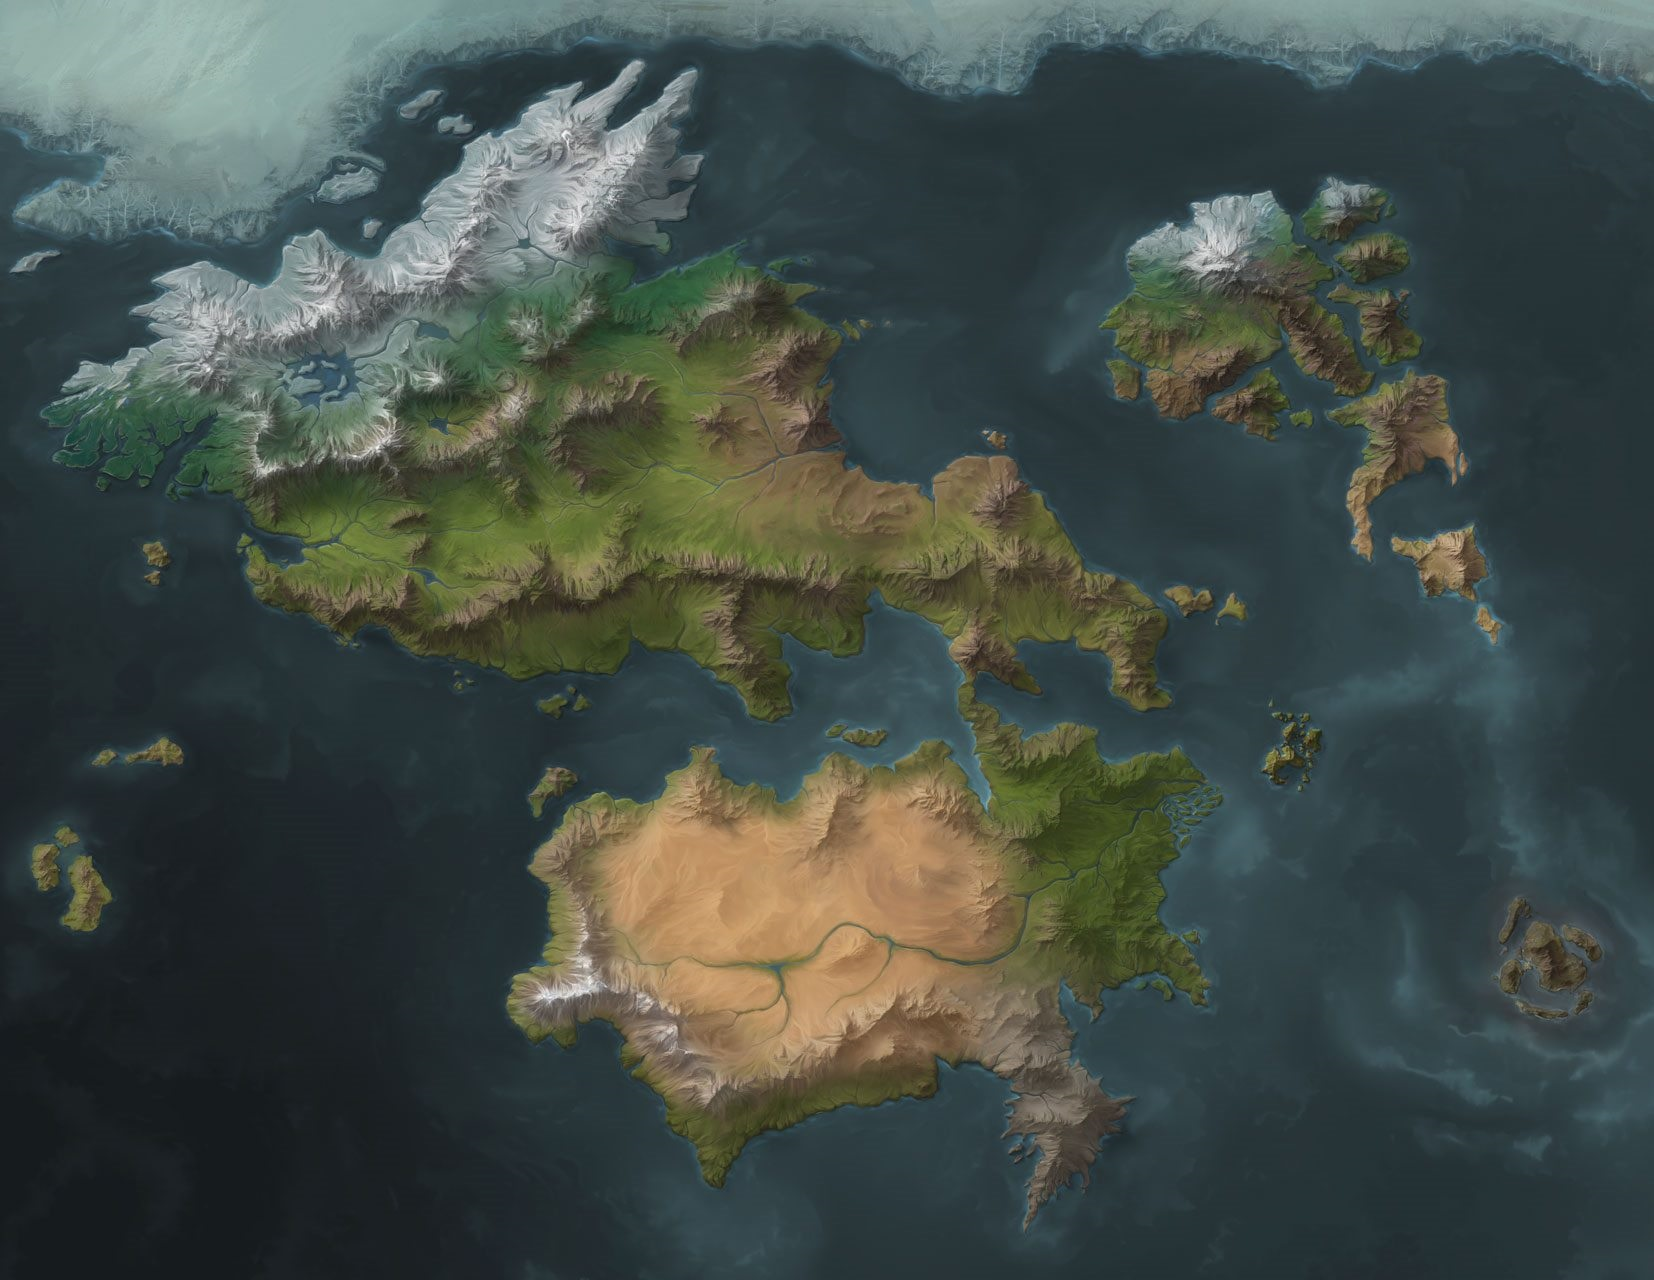
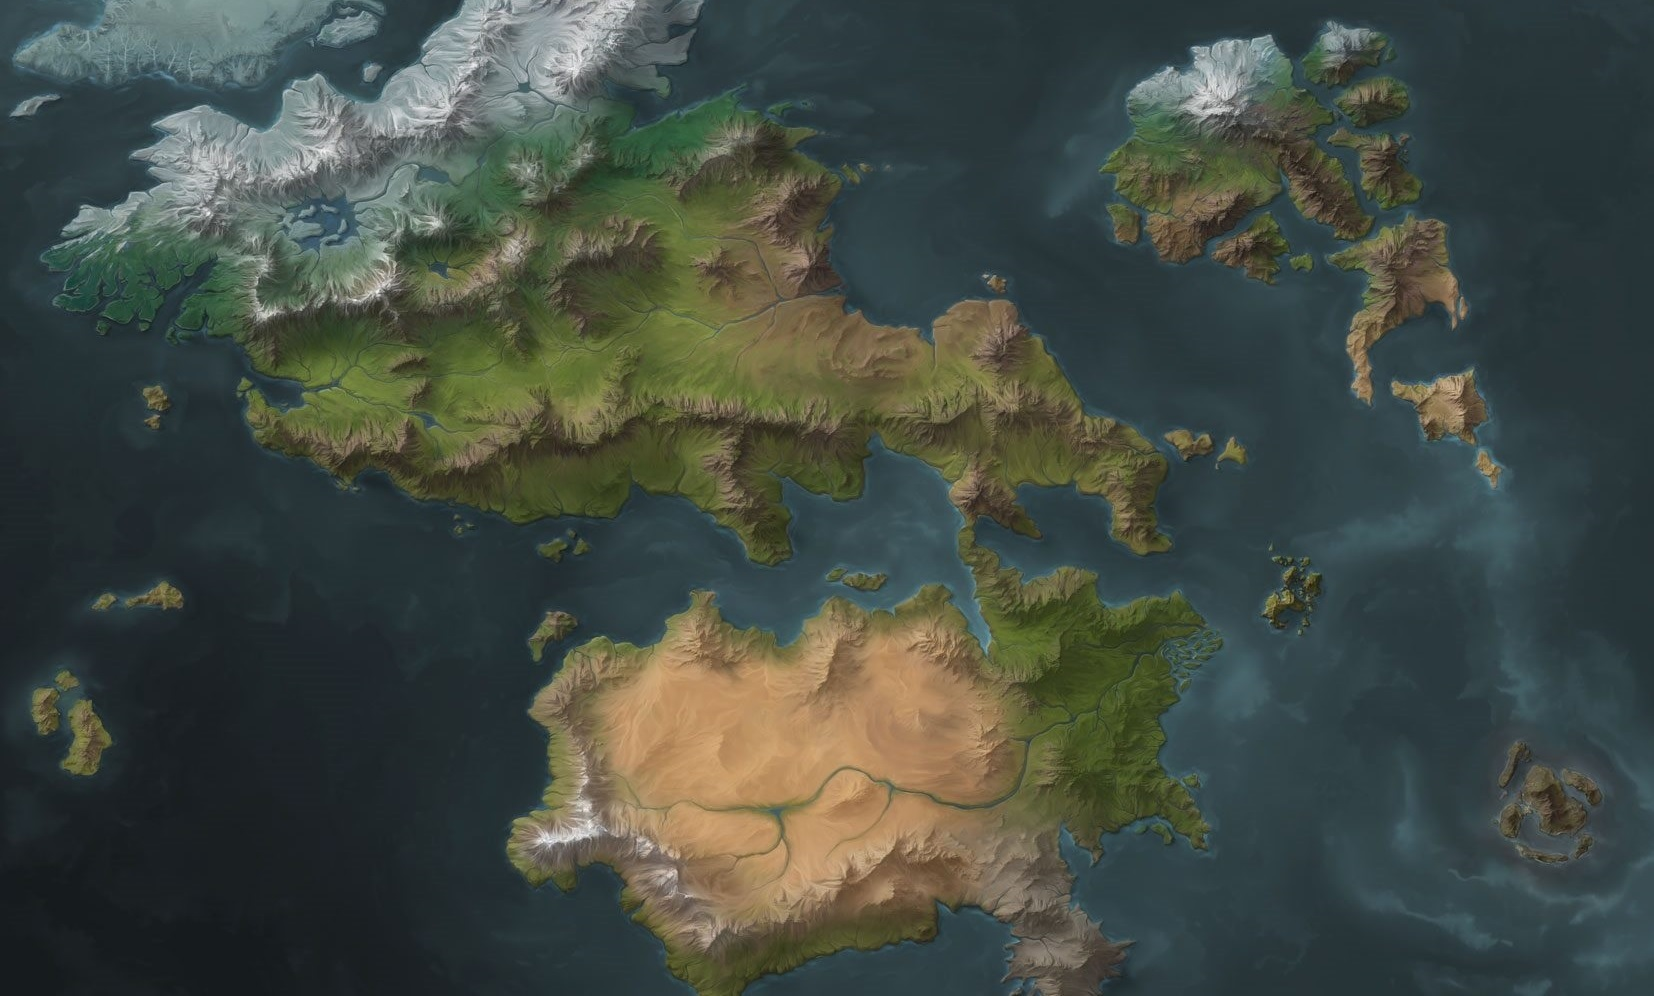
bug fix

diff --git a/frontend/src/pages/worldmap.jsx b/frontend/src/pages/worldmap.jsx
@@ -9,55 +9,55 @@ export default function WorldMap() {
       id: "heimerdinger",
       name: "Heimerdinger",
       image: "/assets/heimerdinger.jpg",
-      position: { left: "62%", top: "55%" },
+      position: { left: "59%", top: "52%" },
       description: "L'excentrique professeur Cecil B. Heimerdinger est l'un des inventeurs les plus novateurs et les plus estimés que le monde ait jamais connus. Membre le plus ancien du Conseil de Piltover, il a été témoin des excès et des dérives de la soif de progrès incessante de la ville. Malgré tout, ce brillant scientifique et enseignant est resté fidèle à sa vocation : mettre ses inventions originales au service de l'amélioration du quotidien.",
     },
     {
       id: "shen",
       name: "Shen",
       image: "/assets/shen.jpg",
-      position: { left: "75%", top: "20%" },
+      position: { left: "73%", top: "17%" },
       description: "Parmi les mystérieux guerriers ioniens connus sous le nom de Kinkou, Shen est leur chef, l'Œil du Crépuscule. Il aspire à demeurer libre de toute confusion émotionnelle, de tout préjugé et de tout ego, et chemine sur la voie invisible du jugement impartial entre le monde spirituel et le monde physique. Chargé de maintenir l'équilibre entre eux, Shen manie des lames d'acier et d'énergie arcanique contre quiconque oserait le menacer.",
     },
     {
       id: "leblanc",
       name: "Leblanc",
       image: "/assets/leblanc.jpg",
-      position: { left: "53%", top: "35%" },
+      position: { left: "47%", top: "31%" },
       description: "Mystérieuse même pour les autres membres de la cabale de la Rose Noire, LeBlanc n'est qu'un nom parmi tant d'autres pour cette femme à la peau pâle qui manipule les personnes et les événements depuis les origines de Noxus. Grâce à sa magie de duplication, la sorcière peut apparaître à n'importe qui, n'importe où, et même être à plusieurs endroits à la fois. Toujours en train de comploter dans l'ombre, les véritables motivations de LeBlanc sont aussi impénétrables que son identité changeante.",
     },
     {
       id: "morgana",
       name: "Morgana",
       image: "/assets/morgana.jpg",
-      position: { left: "30%", top: "41%" },
+      position: { left: "22%", top: "38%" },
       description: "Partagée entre sa nature céleste et mortelle, Morgana a lié ses ailes pour embrasser l'humanité et inflige sa douleur et son amertume aux malhonnêtes et aux corrompus. Elle rejette les lois et les traditions qu'elle juge injustes et lutte pour la vérité depuis l'ombre de Demacia – même lorsque d'autres cherchent à la réprimer – en forgeant des boucliers et des chaînes de feu noir. Plus que tout, Morgana croit sincèrement que même les bannis et les parias peuvent un jour se relever.",
     },
     {
       id: "azir",
       name: "Azir",
       image: "/assets/azir.jpg",
-      position: { left: "54%", top: "82%" },
+      position: { left: "46%", top: "80%" },
       description: "Azir était un empereur mortel de Shurima en une époque lointaine, un homme fier au seuil de l'immortalité. Son orgueil le mena à la trahison et à l'assassinat au moment de son plus grand triomphe, mais à présent, des millénaires plus tard, il renaît en tant qu'être ascensionné d'une puissance immense. Sa cité enfouie surgie des sables, Azir cherche à restaurer la gloire passée de Shurima.",
     },
     {
       id: "ornn",
       name: "Ornn",
       image: "/assets/ornn.jpg",
-      position: { left: "28%", top: "20%" },
+      position: { left: "21%", top: "16%" },
       description: "Ornn est l'esprit de la forge et de l'artisanat de Freljordia. Il travaille dans la solitude d'une immense forge, creusée dans les cavernes de lave sous le volcan Foyer-Maison. Là, il attise des chaudrons bouillonnants de roche en fusion pour purifier les minerais et façonner des objets d'une qualité inégalée. Lorsque d'autres divinités — en particulier Volibear — parcourent la terre et s'immiscent dans les affaires des mortels, Ornn se lève pour remettre ces êtres impétueux à leur place, soit avec son fidèle marteau, soit avec la puissance ardente des montagnes elles-mêmes.",
     },
     {
       id: "pantheon",
       name: "Panthéon",
       image: "/assets/pantheon.jpg",
-      position: { left: "40%", top: "87%" },
+      position: { left: "33%", top: "84%" },
       description: "Jadis hôte malgré lui de l'Aspect de la Guerre, Atréus survécut à la destruction du pouvoir céleste qui l'habitait, refusant de succomber à un coup qui arracha des étoiles aux cieux. Avec le temps, il apprit à accepter sa propre mortalité et la force inébranlable qui l'accompagne. Désormais, Atréus s'oppose au divin en tant que Panthéon renaissant, sa volonté inébranlable alimentant les armes de l'Aspect déchu sur le champ de bataille.",
     },
   ];
 
   return (
-    <div className="relative flex flex-1 min-h-0 overflow-hidden bg-primary-50">
+    <div className="relative h-screen overflow-hidden bg-primary-50">
       <a
         href="/chatbot"
         className="absolute z-50 p-4 m-6 font-semibold transition-all duration-300 rounded-lg bg-primary-100 text-primary-50 hover:bg-secondary-50 hover:scale-105 disabled:opacity-50 disabled:cursor-not-allowed disabled:hover:scale-100"
@@ -76,8 +76,8 @@ export default function WorldMap() {
         `}
       >
         <img
-          src="https://vainkeurz.com/wp-content/uploads/2023/06/runeterra-map-1024x611.png"
-          className="object-contain w-full h-auto"
+          src="/assets/runeterra.jpg"
+          className="object-contain w-full h-full"
           onLoad={() => setLoaded(true)}
         />
 
@@ -102,7 +102,7 @@ export default function WorldMap() {
               onMouseLeave={() => setHoveredId(null)}
               src={point.image}
               alt={point.name}
-              className="z-0 object-cover w-32 h-32 transition-transform duration-200 border-4 rounded-full cursor-pointer border-secondary-50 hover:scale-110"
+              className="z-0 object-cover w-[12vh] h-auto aspect-square transition-transform duration-200 border-4 rounded-full cursor-pointer border-secondary-50 hover:scale-110"
             />
 
             {hoveredId === point.id && (

diff --git a/frontend/src/App.jsx b/frontend/src/App.jsx
@@ -1,4 +1,4 @@
-import { BrowserRouter as Router, Routes, Route } from 'react-router-dom';
+import { BrowserRouter as Router, Routes, Route, useLocation } from 'react-router-dom';
 
 import Home from './pages/home';
 import Catalog from './pages/catalog'
@@ -14,27 +14,39 @@ import { AppProvider } from "./context/appContext";
 import { Navbar } from "./component/navbar";
 import Terms from './pages/terms';
 
+
+function AppContent() {
+  const location = useLocation();
+
+  // Ne pas afficher le Navbar sur la page /map
+  const showNavbar = location.pathname !== "/map";
+
+  return (
+    <div className="flex flex-col min-h-screen">
+      {showNavbar && <Navbar />}
+
+      <main className="flex flex-col flex-1 min-h-0">
+        <Routes>
+          <Route path="/" element={<Home />} />
+          <Route path="/catalog" element={<Catalog />} />
+          <Route path="/chatbot" element={<Chatbot />} />
+          <Route path="/map" element={<WorldMap />} />
+          <Route path="/login" element={<Connexion />} />
+          <Route path="/inscription" element={<Inscription />} />
+          <Route path="/privacy" element={<Privacy />} />
+          <Route path="/terms" element={<Terms />} />
+          <Route path="/logout" element={<Logout />} />
+        </Routes>
+      </main>
+    </div>
+  );
+}
+
 export default function App() {
   return (
     <AppProvider>
       <Router>
-        <div className="flex flex-col h-screen">
-          <Navbar />
-
-          <main className="flex flex-col flex-1 min-h-0">
-            <Routes>
-              <Route path="/" element={<Home />} />
-              <Route path="/catalog" element={<Catalog />} />
-              <Route path="/chatbot" element={<Chatbot />} />
-              <Route path="/map" element={<WorldMap />} />
-              <Route path="/login" element={<Connexion />} />
-              <Route path="/inscription" element={<Inscription />} />
-              <Route path="/privacy" element={<Privacy />} />
-              <Route path="/terms" element={<Terms />} />
-              <Route path="/logout" element={<Logout />} />
-            </Routes>
-          </main>
-        </div>
+        <AppContent />
       </Router>
     </AppProvider>
   );

diff --git a/frontend/src/pages/login.jsx b/frontend/src/pages/login.jsx
@@ -54,21 +54,22 @@ export default function Login() {
       return;
     }
     
-    // Submit form
     setIsSubmitting(true);
     
     try {
-      setSubmitSuccess(true);
-
       await loginContext(formData.email, formData.password);
 
-      // Redirect after success
       window.location.href = '/chatbot';
-
-      
-    } catch (error) {
-      setErrors({ submit: "Une erreur est survenue. Veuillez réessayer." });
-    } finally {
+    }
+    catch (error) {
+      if (error.message === "INVALID_CREDENTIALS") {
+        setErrors({submit: "Email ou mot de passe incorrect"});
+      }
+      else {
+        setErrors({submit: "Erreur serveur\nVeuillez réessayer plus tard"});
+      }
+    }
+    finally {
       setIsSubmitting(false);
     }
   };

diff --git a/frontend/src/context/appContext.jsx b/frontend/src/context/appContext.jsx
@@ -39,8 +39,16 @@ export const AppProvider = ({ children }) => {
   };
 
   const loginContext = async (email, password) => {
-    await login(email, password);
+    try {
+      await login(email, password);
+    } catch (error) {
+      if (error.response?.status === 401) {
+        throw new Error("INVALID_CREDENTIALS");
+      }
+      throw new Error("SERVER_ERROR");
+    }
   };
+
 
   const logoutContext = async () => {
     await logout();

diff --git a/frontend/src/styles/index.css b/frontend/src/styles/index.css
@@ -30,3 +30,22 @@
   position: relative;
   z-index: 1;
 }
+
+html {
+  -webkit-text-size-adjust: 100%;
+}
+
+input:-webkit-autofill,
+input:-webkit-autofill:hover,
+input:-webkit-autofill:focus,
+input:-webkit-autofill:active {
+
+  -webkit-box-shadow: 0 0 0 1000px #0f172a inset !important;
+
+  -webkit-text-fill-color: white !important;
+
+  font-size: inherit !important;
+
+  transform: none !important;
+
+}

diff --git a/backend/api.py b/backend/api.py
@@ -1,6 +1,6 @@
 from fastapi import APIRouter, HTTPException, Depends, Request, Response, Body
 from sqlalchemy.orm import Session
-from data.models import engine, Account, Guide, Conversation, Message, session as db_session
+from data.models import engine, Account, Guide, Conversation, Message, SessionLocal#, session as db_session
 import bcrypt
 import datetime
 import os
@@ -46,6 +46,13 @@ characters = {
     "ornn": "Ornn, le dieu-forgeron du Freljord, est un artisant taciturne et indépendant, préférant la solitude de sa forge volcanique au tumulte des affaires divines ou mortelles. Fier et pragmatique, il façonne des armes légendaires avec une maîtrise incomparable, intervenant rarement dans les conflits — mais toujours avec une puissance brute et un sens profond de l’artisanat authentique lorsqu’il le fait.",
     "pantheon": "Pantheon est un guerrier Rakkor au courage indomptable, forgé par la douleur, la perte et une volonté inébranlable de protéger les mortels. Stoïque et résilient, il incarne la lutte contre des forces supérieures, refusant de renier sa propre humanité ou son engagement envers ceux qui comptent sur lui, combattant avec une détermination obstinée même face à des ennemis divins.",
 }
+
+def get_db():
+    db = SessionLocal()
+    try:
+        yield db
+    finally:
+        db.close()
 
 # -------------------------
 # JWT Management
@@ -115,7 +122,7 @@ def get_current_user(request: Request):
 # User Endpoints
 # -------------------------
 @router.post("/login")
-async def login(response: Response, data: dict):
+async def login(response: Response, data: dict, db: Session = Depends(get_db)):
     """
     Authenticate a user with email and password, then create a JWT token.
 
@@ -132,7 +139,8 @@ async def login(response: Response, data: dict):
     email = data.get("email")
     password = data.get("password")
 
-    account = db_session.query(Account).filter_by(email=email).first()
+    account = db.query(Account).filter_by(email=email).first()
+    print(account)
     if not account or not bcrypt.checkpw(password.encode("utf-8"), account.password.encode("utf-8")):
         raise HTTPException(status_code=401, detail="Invalid credentials")
 
@@ -141,7 +149,7 @@ async def login(response: Response, data: dict):
     return {"message": "Login successful"}
 
 @router.post("/register")
-async def register(response: Response, data: dict):
+async def register(response: Response, data: dict, db: Session = Depends(get_db)):
     """
     Register a new user with email and password and create a JWT token.
 
@@ -162,14 +170,14 @@ async def register(response: Response, data: dict):
     if not email or not password:
         raise HTTPException(status_code=400, detail="Missing required fields")
 
-    existing_user = db_session.query(Account).filter_by(email=email).first()
+    existing_user = db.query(Account).filter_by(email=email).first()
     if existing_user:
         raise HTTPException(status_code=409, detail="Email already in use")
 
     hashed_password = bcrypt.hashpw(password.encode("utf-8"), bcrypt.gensalt()).decode("utf-8")
     new_account = Account(email=email, password=hashed_password, created_at=date_now)
-    db_session.add(new_account)
-    db_session.commit()
+    db.add(new_account)
+    db.commit()
 
     create_token(response, new_account.id_account)
 
@@ -412,7 +420,7 @@ Si le contexte ne contient pas d’éléments permettant de répondre à la ques
 # Conversation Endpoints
 # -------------------------
 @router.delete("/del-conv")
-async def delete_conv(id: int, user_id: int = Depends(get_current_user)):
+async def delete_conv(id: int, user_id: int = Depends(get_current_user), db: Session = Depends(get_db)):
     """
     Delete a conversation by its ID.
 
@@ -426,15 +434,15 @@ async def delete_conv(id: int, user_id: int = Depends(get_current_user)):
     Returns:
         dict: Success message confirming deletion.
     """
-    conv = db_session.query(Conversation).filter_by(id_conversation=id).first()
+    conv = db.query(Conversation).filter_by(id_conversation=id).first()
     if not conv:
         raise HTTPException(status_code=404, detail="Conversation not found")
-    db_session.delete(conv)
-    db_session.commit()
+    db.delete(conv)
+    db.commit()
     return {"message": "Conversation deleted"}
 
 @router.post("/add-conv")
-async def add_conv(data: dict, user_id: int = Depends(get_current_user)):
+async def add_conv(data: dict, user_id: int = Depends(get_current_user), db: Session = Depends(get_db)):
     """
     Add a new conversation for the current user.
 
@@ -449,12 +457,12 @@ async def add_conv(data: dict, user_id: int = Depends(get_current_user)):
     character = data.get("character")
     date_now = datetime.datetime.now()
     new_conv = Conversation(name=title, character=character, updated_at=date_now, id_account=user_id)
-    db_session.add(new_conv)
-    db_session.commit()
+    db.add(new_conv)
+    db.commit()
     return {"message": "Conversation added", "id": new_conv.id_conversation}
 
 @router.get("/get-conv")
-async def get_conv(character: str, user_id: int = Depends(get_current_user)):
+async def get_conv(character: str, user_id: int = Depends(get_current_user), db: Session = Depends(get_db)):
     """
     Retrieve all conversations for the current user, ordered by last updated.
 
@@ -464,7 +472,7 @@ async def get_conv(character: str, user_id: int = Depends(get_current_user)):
     Returns:
         list: List of dictionaries representing each conversation.
     """
-    convs = db_session.query(Conversation).filter_by(id_account=user_id).filter_by(character=character).order_by(Conversation.updated_at.desc()).all()
+    convs = db.query(Conversation).filter_by(id_account=user_id).filter_by(character=character).order_by(Conversation.updated_at.desc()).all()
     return [c.to_dict() for c in convs]
 
 
@@ -472,7 +480,7 @@ async def get_conv(character: str, user_id: int = Depends(get_current_user)):
 # Messages Endpoints
 # -------------------------
 @router.post("/add-msg")
-async def add_message(data: dict = Body(...), user_id: int = Depends(get_current_user)):
+async def add_message(data: dict = Body(...), user_id: int = Depends(get_current_user), db: Session = Depends(get_db)):
     """
     Add a new message to a conversation.
 
@@ -495,12 +503,12 @@ async def add_message(data: dict = Body(...), user_id: int = Depends(get_current
     if not id_conv or not message or not role:
         raise HTTPException(status_code=400, detail="Missing required fields")
 
-    conv = db_session.query(Conversation).filter_by(id_conversation=id_conv).first()
+    conv = db.query(Conversation).filter_by(id_conversation=id_conv).first()
     if not conv:
         raise HTTPException(status_code=404, detail="Conversation not found")
 
     new_msg = Message(content=message, role=role, id_conversation=id_conv)
-    db_session.add(new_msg)
+    db.add(new_msg)
     conv.updated_at = datetime.datetime.now()
-    db_session.commit()
+    db.commit()
     return {"message": "Message added"}

diff --git a/data/models.py b/data/models.py
@@ -146,7 +146,14 @@ class Possess(Base):
 # ============================================================
 
 engine = create_engine(DATABASE_URL)
+
 Base.metadata.create_all(engine)
 
-Session = sessionmaker(bind=engine)
-session = Session()
+SessionLocal = sessionmaker(
+    autocommit=False,
+    autoflush=False,
+    bind=engine
+)
+
+# Session = sessionmaker(bind=engine)
+# session = Session()
